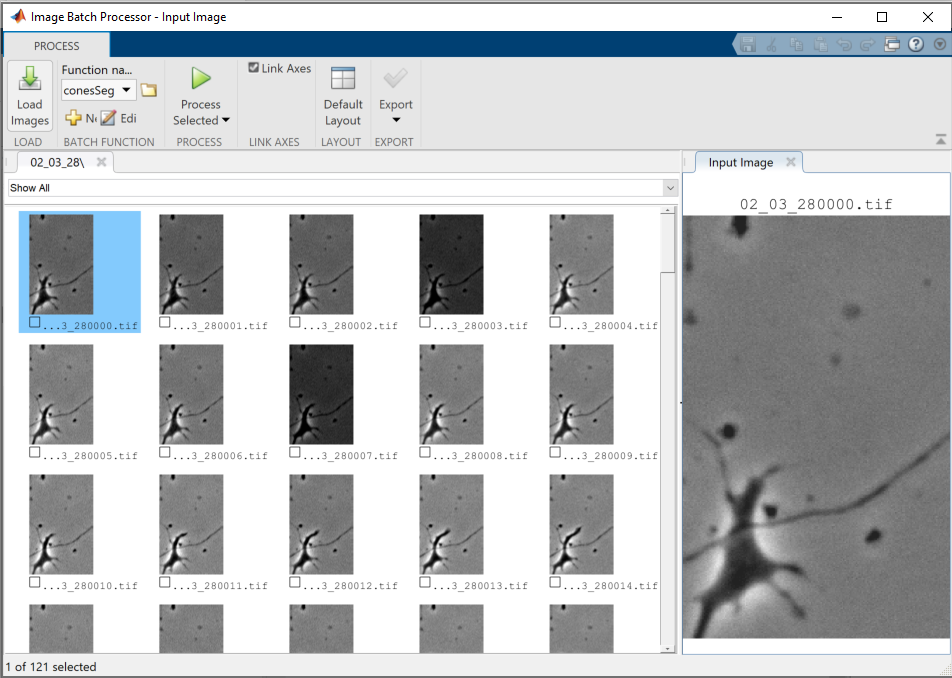
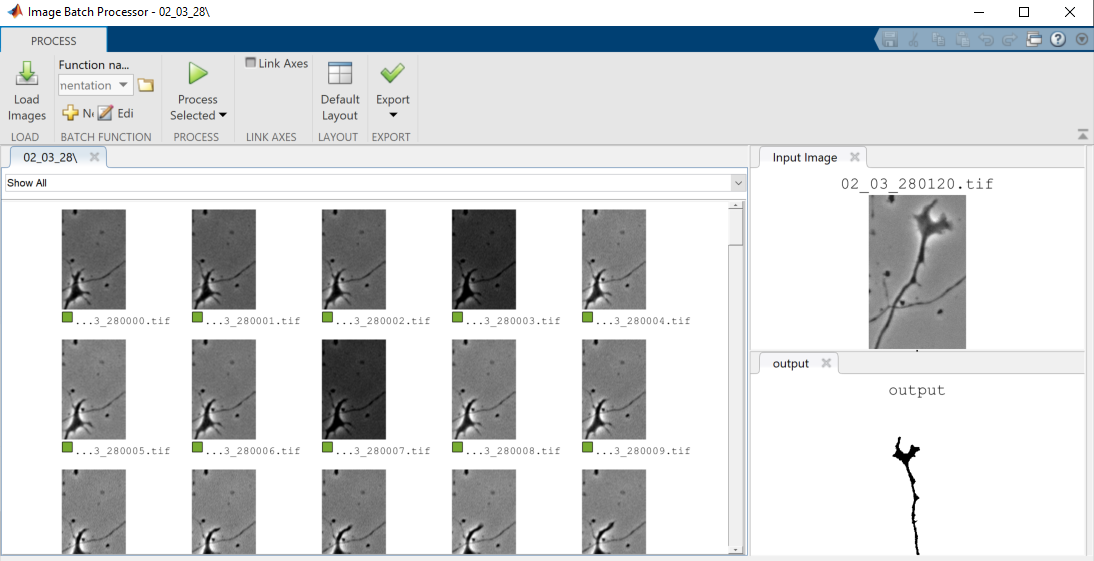
Update

diff --git a/README.md b/README.md
@@ -15,6 +15,11 @@ El segundo reto hace referencia a la variabilidad de la forma del cono a menudo 
 
 El tercer reto, relacionado con el rapido cambio de forma, tamaño y posción requiere de muchas muestras (frames). Este hecho tiene una ventaja clara, el manejo de gran cantidad de muestras pretende obtener mejores estimadores de variación de la forma de los conos de crecimiento.
 
+### Prerequisites
+```
+Mathworks Matlab R2019b
+```
+
 ## Fases del Estudio 
 
 <p style="text-align:center">
@@ -47,17 +52,15 @@ figure 2: Interfaz gráfica de usuario para la selección de parámetros de segm
 </div>
 
 
-2- __Procesamiento de parametros__:  Los parametros seleccionados en el paso anterior y almacenados en:
-- <a href="https://github.com/jsaenzBimcv/Study-of-the-Growth-Cone-Dynamics/seg_Cone_Morphology/config"> seg_Cone_Morphology/config/config.dat </a> 
-
-se utilizan para segmentar un Time-Lapse, en este caso de 120 imágenes.
+2- __Procesamiento de parametros__:  
+Los parametros seleccionados en el paso anterior y almacenados en <a href="https://github.com/jsaenzBimcv/Study-of-the-Growth-Cone-Dynamics/tree/main/seg_Cone_Morphology/config"> seg_Cone_Morphology/config/config.dat </a>, se utilizan para segmentar un Time-Lapse, en este caso de 120 imágenes.
 
 * Run the Image Batch Processor with the following script:
 
-- <a href="https://github.com/jsaenzBimcv/Study-of-the-Growth-Cone-Dynamics/tree/main/seg_Cone_Morphology"> seg_Cone_Morphology/conesSegmentation.m </a>
+- <a href="https://github.com/jsaenzBimcv/Study-of-the-Growth-Cone-Dynamics/tree/main/seg_Cone_Morphology"> seg_Cone_Morphology/automaticConesSegmentation.m </a>
 
 <p style="text-align:center">
-<img src="./images/gui.PNG" >
+<img src="./images/IBP.PNG" >
 </p>
 <div style='text-align:center;'>
 
@@ -75,7 +78,8 @@ Para esto es necesario interpolar el conjunto de puntos a distancias fijas a lo 
 ```
 seg_Cone_Morphology/conesSegmentation.m
 ```
- ### Análisis de componentes principales 
+
+### Análisis de componentes principales 
 
 El conjunto de coordenadas debe reducirse a una forma comprensible (de baja dimensión), para ello, la herramienta utilizada es el análisis de componentes principales (PCA). De esta forma, es posible mostrar los conos de crecimiento como puntos en un diagrama de dispersion bidimensional o tridimensional sin perder mucha información, indicando las principales direcciones de variación de la forma dentro de la muestra.
 
@@ -84,13 +88,6 @@ El conjunto de coordenadas debe reducirse a una forma comprensible (de baja dime
 seg_Cone_Morphology/conesSegmentation.m
 ```
 
-### Prerequisites
-
-What things you need to install the software and how to install them
-
-```
-conesSegmentation.m
-```
 
 ## Authors
 
